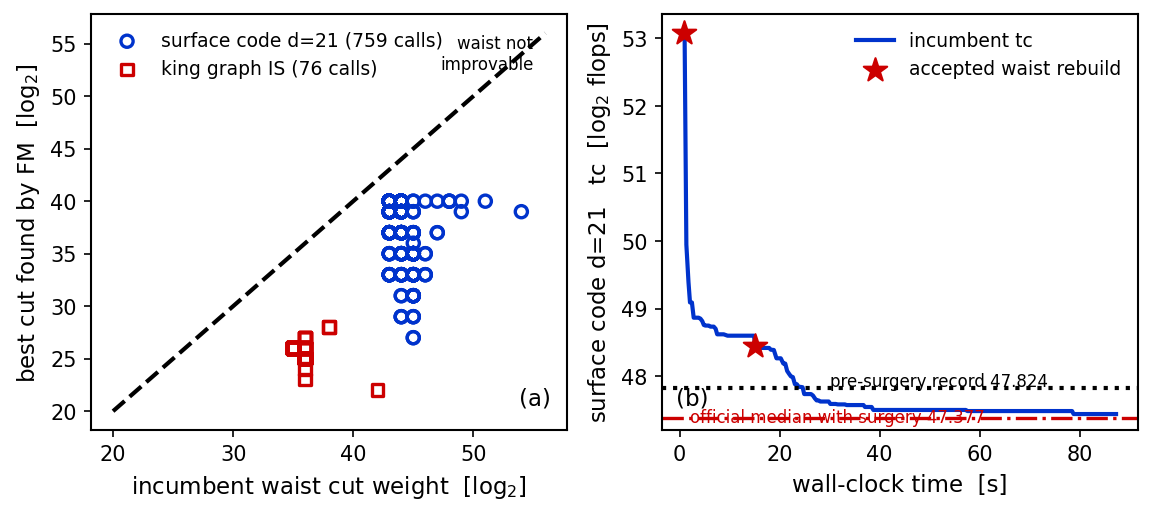
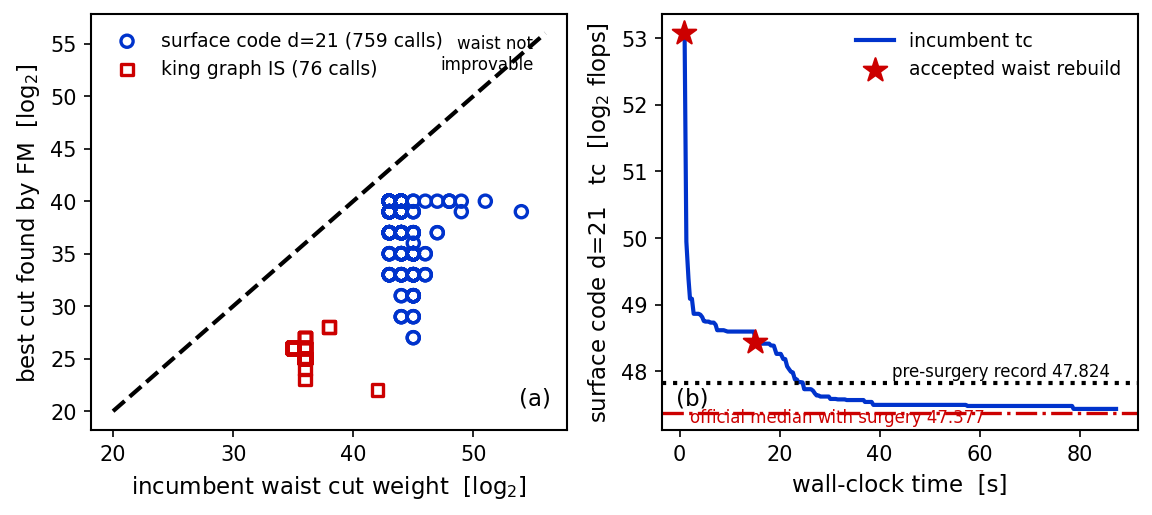
Paper: F10 label polish

diff --git a/articles/2026-07-23-certified-contraction-frontiers/figures/make_figures2.py b/articles/2026-07-23-certified-contraction-frontiers/figures/make_figures2.py
@@ -189,10 +189,10 @@ def fig10_waist_surgery():
     ax.scatter([t for t, _ in acc], [c for _, c in acc], marker="*", s=140,
                color=RED, zorder=3, label="accepted waist rebuild")
     ax.axhline(47.824, color=BLACK, lw=2.0, ls=":")
-    ax.text(30, 47.85, "pre-surgery record 47.824", fontsize=8)
+    ax.text(86, 47.93, "pre-surgery record 47.824", fontsize=8, ha="right")
     ax.axhline(47.377, color=RED, lw=1.6, ls="-.")
-    ax.text(2, 47.31, "official median with surgery 47.377", fontsize=8, color=RED)
-    ax.set_ylim(47.2, None)
+    ax.text(2, 47.24, "official median with surgery 47.377", fontsize=8, color=RED)
+    ax.set_ylim(47.12, None)
     ax.set_xlabel("wall-clock time  [s]")
     ax.set_ylabel(r"surface code d=21   tc  [log$_2$ flops]")
     ax.legend(loc="upper right", frameon=False)
